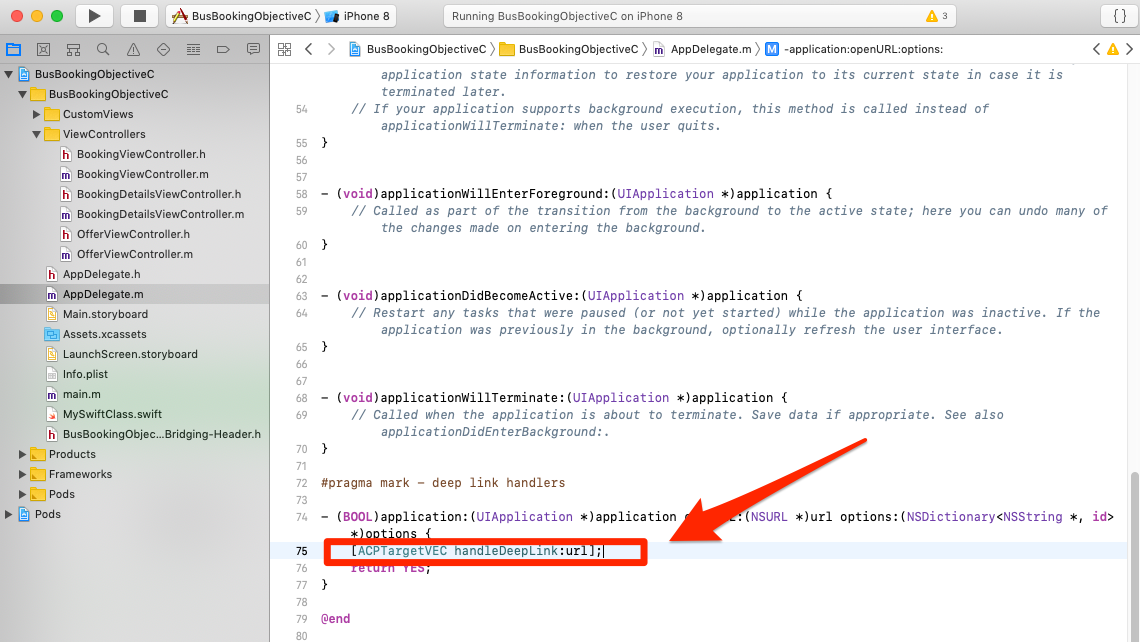
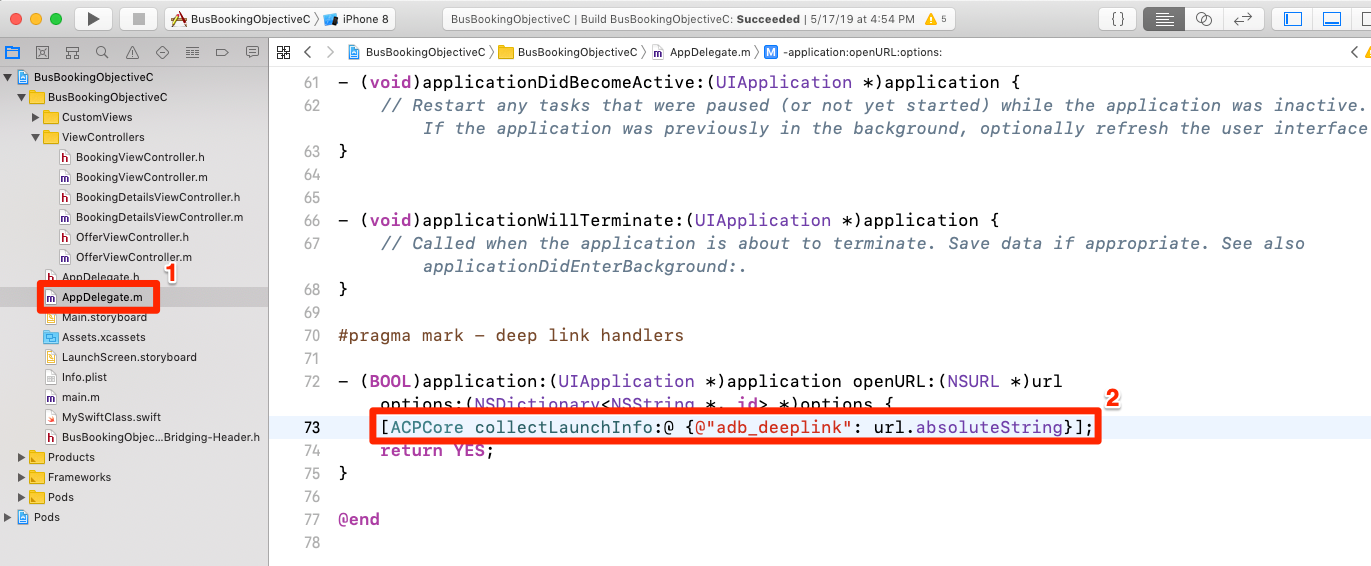
update deeplink code

Changed region(s): [[0.0, 0.0, 1.0, 1.0], [0.8904, 0.3004, 0.9518, 0.3304], [0.2763, 0.9611, 0.307, 0.9912]]

diff --git a/help/mobile-ios-objective-c-implementation/target-vec.md b/help/mobile-ios-objective-c-implementation/target-vec.md
@@ -36,7 +36,7 @@ To complete the lessons in this section, you must:
 
 ## Add Parameters
 
-As you just saw in the last exercise, app Lifecycle metrics are automatically included as parameters in the Target VEC request. You can also add custom parameters to the requests.
+Lifecycle metrics are automatically included as parameters in the Target VEC request. You can also add custom parameters to the requests.
 
 **To add custom parameters**
 
@@ -103,7 +103,7 @@ The next step is to add a handler to the deep link.
 **To handle the deep links**
 
 1. Open the `AppDelegate.m` file
-1. Add the line `[ACPTargetVEC handleDeepLink:url];` to the `AppDelegate:application:openURL` section as pictured below
+1. Add the line `[ACPCore collectLaunchInfo:@ {@"adb_deeplink": url.absoluteString}];` to the `AppDelegate:application:openURL` section as pictured below
    ![Update the AppDelegate file](images/ios/objective-c/mobile-targetvec-appDelegate.png)
 
 ### Verify the deep link

diff --git a/help/mobile-ios-swift-implementation/target-vec.md b/help/mobile-ios-swift-implementation/target-vec.md
@@ -36,7 +36,7 @@ To complete the lessons in this section, you must:
 
 ## Add Parameters
 
-As you just saw in the last exercise, app Lifecycle metrics are automatically included as parameters in the Target VEC request. You can also add custom parameters to the requests.
+Lifecycle metrics are automatically included as parameters in the Target VEC request. You can also add custom parameters to the requests.
 
 **To add custom parameters**
 
@@ -100,7 +100,7 @@ The next step is to add a handler to the deep link.
 **To handle the deep links**
 
 1. Open the `AppDelegate.swift` file
-1. Add the line `ACPTargetVEC.handleDeepLink(url)` to the `AppDelegate:application:openURL` section as pictured below
+1. Add the line `ACPCore.collectLaunchInfo(["adb_deeplink": url.absoluteString])` to the `AppDelegate:application:openURL` section as pictured below
    ![Update the AppDelegate file](images/ios/swift/mobile-targetvec-appDelegate.png)
 
 ### Verify the deep link
